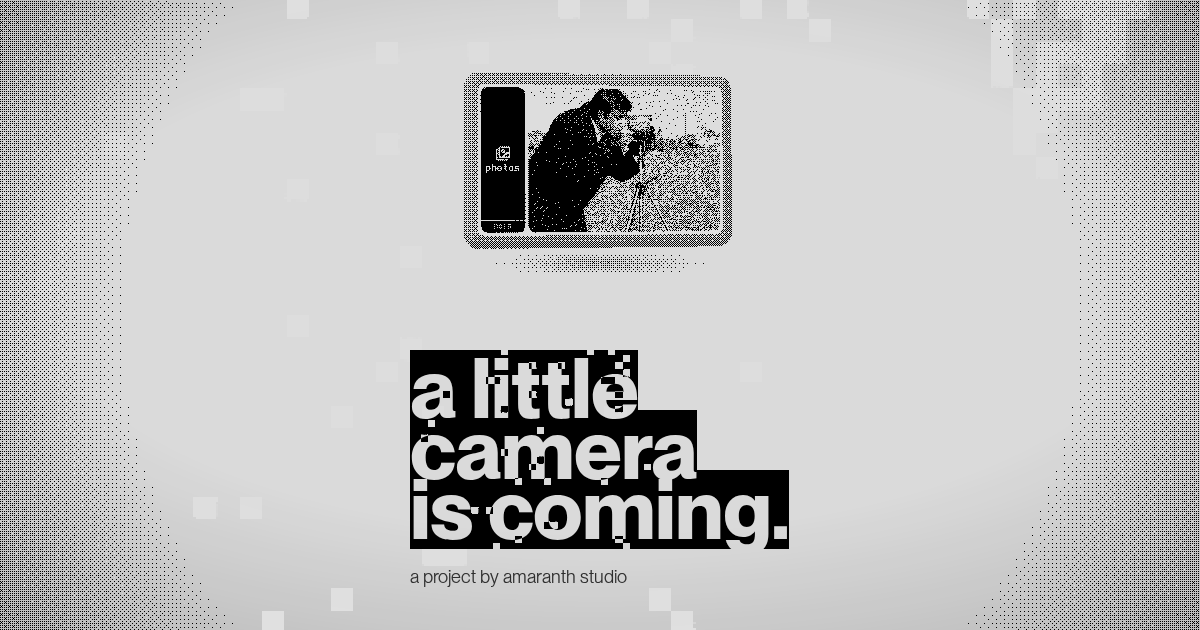
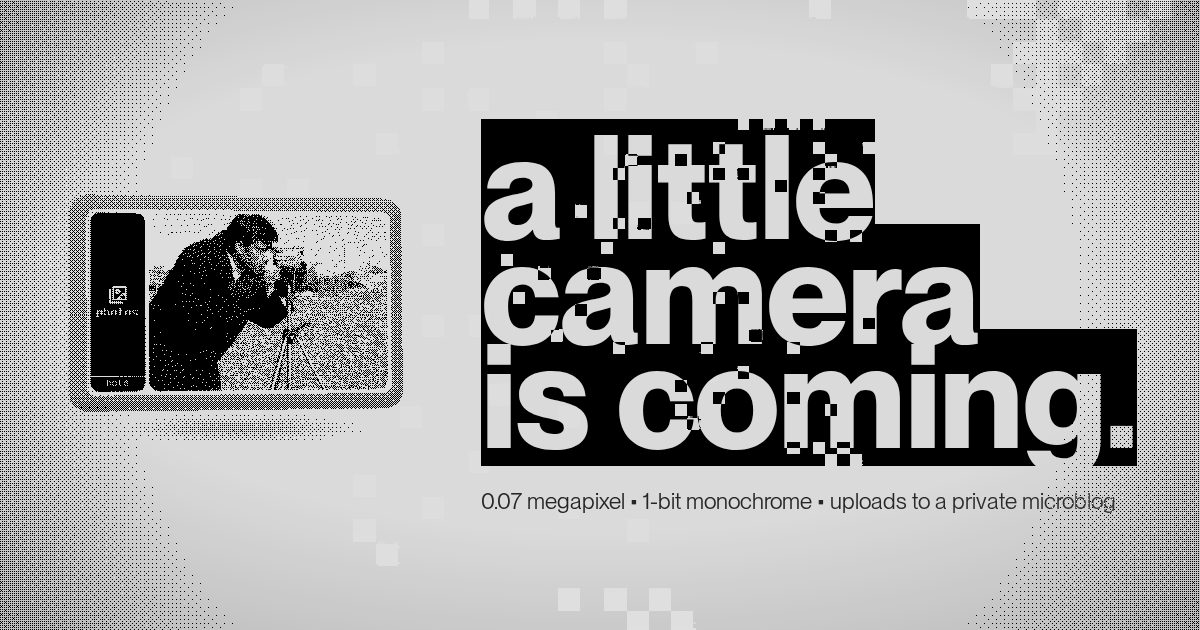
fix(site): the void stops repainting the ground's dots, and a landscape card
The void was drawing every dot the vignette asks for a second time, on top
of the wash, where the ground behind draws the same dots underneath it. That
came out as a darker rectangle exactly the size of the canvas -- the ugly
background behind the camera. It now contributes only what the ground could
not have known about: the dots the shadow adds.

uPage is rounded to integers for it, so the two dither grids fall on the
same lattice. Half a pixel out and the dots interleave instead of
coinciding, which doubles the density wherever they overlap.

The card is landscape now, device left and words right, because a portrait
composition in a 1200x630 frame leaves most of it empty. Its second line is
the spec rather than the credit, and the description tags take the same
line.

Claude-Session: https://claude.ai/code/session_018Do1eGLFYYJFzp83wMP41s

diff --git a/site/index.html b/site/index.html
@@ -4,7 +4,7 @@
 <meta charset="utf-8">
 <meta name="viewport" content="width=device-width, initial-scale=1, viewport-fit=cover">
 <title>a little camera</title>
-<meta name="description" content="a 0.07mp black-and-white camera that uploads straight to your own microblog, for just your friends to see.">
+<meta name="description" content="0.07 megapixel • 1-bit monochrome • uploads to a private microblog">
 <link rel="canonical" href="https://lttl.cam/">
 <meta name="color-scheme" content="light">
 <meta name="theme-color" content="#dddddd">
@@ -17,7 +17,7 @@
      dither, same glitched headline. -->
 <meta property="og:site_name" content="lttl.cam">
 <meta property="og:title" content="a little camera is coming">
-<meta property="og:description" content="a 0.07mp black-and-white camera that uploads straight to your own microblog, for just your friends to see.">
+<meta property="og:description" content="0.07 megapixel • 1-bit monochrome • uploads to a private microblog">
 <meta property="og:type" content="website">
 <meta property="og:url" content="https://lttl.cam/">
 <meta property="og:locale" content="en">
@@ -25,12 +25,12 @@
 <meta property="og:image:type" content="image/png">
 <meta property="og:image:width" content="1200">
 <meta property="og:image:height" content="630">
-<meta property="og:image:alt" content="a small dithered camera floating over the words a little camera is coming.">
+<meta property="og:image:alt" content="a small dithered camera beside the words a little camera is coming.">
 <meta name="twitter:card" content="summary_large_image">
 <meta name="twitter:title" content="a little camera is coming">
-<meta name="twitter:description" content="a 0.07mp black-and-white camera that uploads straight to your own microblog, for just your friends to see.">
+<meta name="twitter:description" content="0.07 megapixel • 1-bit monochrome • uploads to a private microblog">
 <meta name="twitter:image" content="https://lttl.cam/media/og.png">
-<meta name="twitter:image:alt" content="a small dithered camera floating over the words a little camera is coming.">
+<meta name="twitter:image:alt" content="a small dithered camera beside the words a little camera is coming.">
 <!-- The headline is fitted by measuring the font that actually resolved, so a
      late-arriving PP Neue Montreal makes it visibly re-fit. Preloading the two
      faces costs 125 KB up front and removes that jump; `crossorigin` is
@@ -625,16 +625,25 @@ void main(){
   // vignette and the dither grid are indexed in page coordinates rather than
   // canvas ones, so neither has a seam at the canvas edge.
   vec2 pg = vec2(uPage.x + gl_FragCoord.x, uPage.y - gl_FragCoord.y);
-  lum = clamp(lum, 0.0, 1.0) * vignette(pg);
-  float v = lum > bayer(pg) ? 1.0 : 0.0;
+  float th = bayer(pg), vig = vignette(pg);
+  float v = clamp(lum, 0.0, 1.0) * vig > th ? 1.0 : 0.0;
   // Opaque where the ray hit the device, transparent where it missed. Solid,
   // and the wash would show through the camera; opaque everywhere, and the
   // canvas would be a clean rectangle in the wash -- a pale frame around it.
   // The void's ink dots are still drawn, so the shadow and the vignette's own
   // grain survive, and being computed from the same page-aligned field as the
   // ground underneath they land on exactly the dots already there.
-  if (hit) gl_FragColor = vec4(mix(uInk, uGround, v), 1.0);
-  else     gl_FragColor = v > 0.5 ? vec4(0.0) : vec4(uInk, 1.0);
+  if (hit){
+    gl_FragColor = vec4(mix(uInk, uGround, v), 1.0);
+  } else {
+    // The ground canvas behind already lays every dot the vignette asks for,
+    // and it lays them UNDER the wash. Repainting the same dots here would put
+    // them on top of it instead, unwashed -- a darker rectangle exactly the
+    // size of this canvas. So the void contributes only what the ground could
+    // not have known about: the dots the shadow adds.
+    float ground = vig > th ? 1.0 : 0.0;
+    gl_FragColor = (v < 0.5 && ground > 0.5) ? vec4(uInk, 1.0) : vec4(0.0);
+  }
 }`;
 
 // One source of truth for the two colours: the stylesheet.
@@ -712,7 +721,11 @@ function sizeGL(){
 // stale origin shows immediately as a rectangle of mismatched ground.
 function placeGL(){
   const r = document.getElementById('gl').getBoundingClientRect();
-  gl.uniform4f(uni.uPage, r.left, r.top + r.height, innerWidth, innerHeight);
+  // Rounded, so this canvas's dither grid falls on the same integer lattice as
+  // the ground's. Half a pixel out and the two sets of dots interleave instead
+  // of coinciding, which doubles the density wherever they overlap.
+  gl.uniform4f(uni.uPage, Math.round(r.left), Math.round(r.top + r.height),
+               innerWidth, innerHeight);
 }
 
 // The same vignette the shader applies, painted across the viewport and

diff --git a/site/README.md b/site/README.md
@@ -139,17 +139,26 @@ ground, the same dither, the same glitched headline, the device held face on
 showing a photo. It is 1200x630 at one device pixel per CSS pixel, because the
 dither is one dot per CSS pixel and scaling it would turn the dots to mush.
 
-To remake it, load the page at that size, pin the device, enlarge the measure
-so the composition fills the frame, and shoot:
+It is laid out landscape rather than in the page's own stack — device left,
+words right — because a portrait composition in a 1200x630 frame leaves most of
+it empty. To remake it, load the page at that size, turn the sheet into a row,
+pin the device face on, swap the credit for the spec line, and shoot:
 
 ```js
-document.documentElement.style.setProperty('--sheet', '380px');
+document.documentElement.style.setProperty('--sheet', '470px');
+const sheet = document.querySelector('.sheet');
+sheet.style.width = '1080px';
+sheet.style.flexDirection = 'row-reverse';   // the stage is second in the DOM
+sheet.style.alignItems = 'center';
+sheet.style.gap = '64px';
+document.querySelector('.stage').style.flex = '0 0 auto';
+document.querySelector('.say').style.flex = '1 1 auto';
+document.querySelector('.by').textContent =
+  '0.07 megapixel \u2022 1-bit monochrome \u2022 uploads to a private microblog';
 spinFrom = 0; spinTo = 0; spinAt = -1e9;
 setScreen('gallery');
 fitAndMask(); sizeGL();
 ```
-
-380px is as large as the measure goes before the stack outgrows 630.
 
 Everything in the head is lower case, the way the page is set. The favicon is
 an inline SVG of the device in ink on the page's paper, so there is no second
